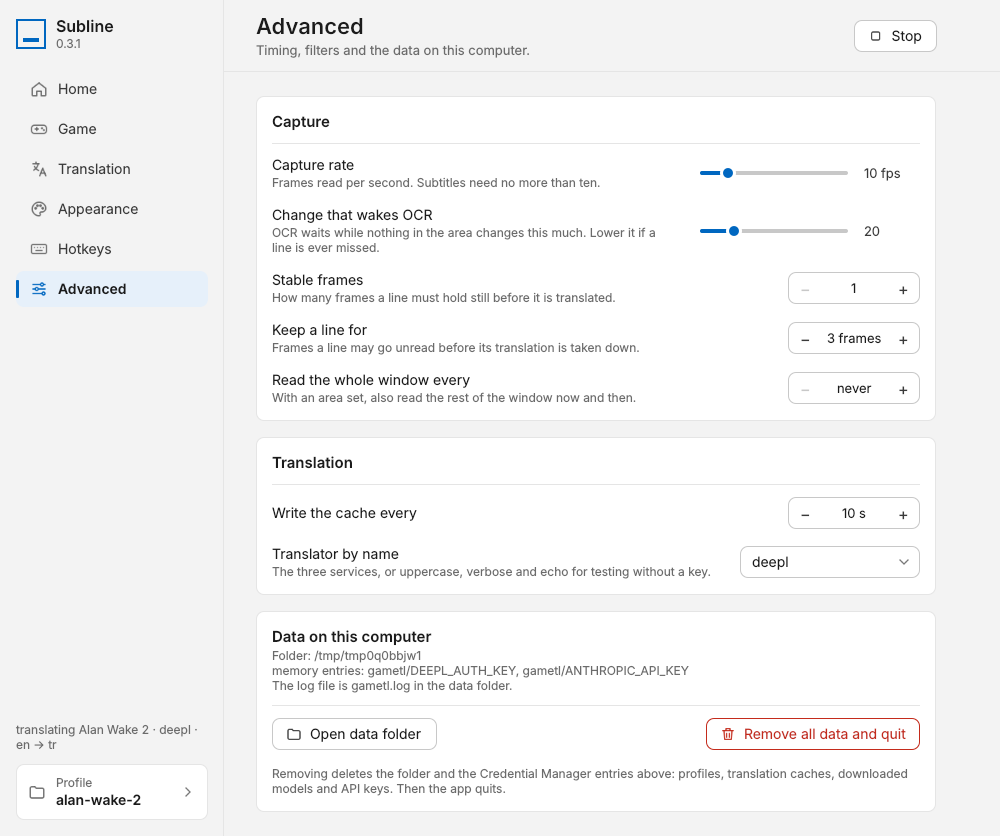
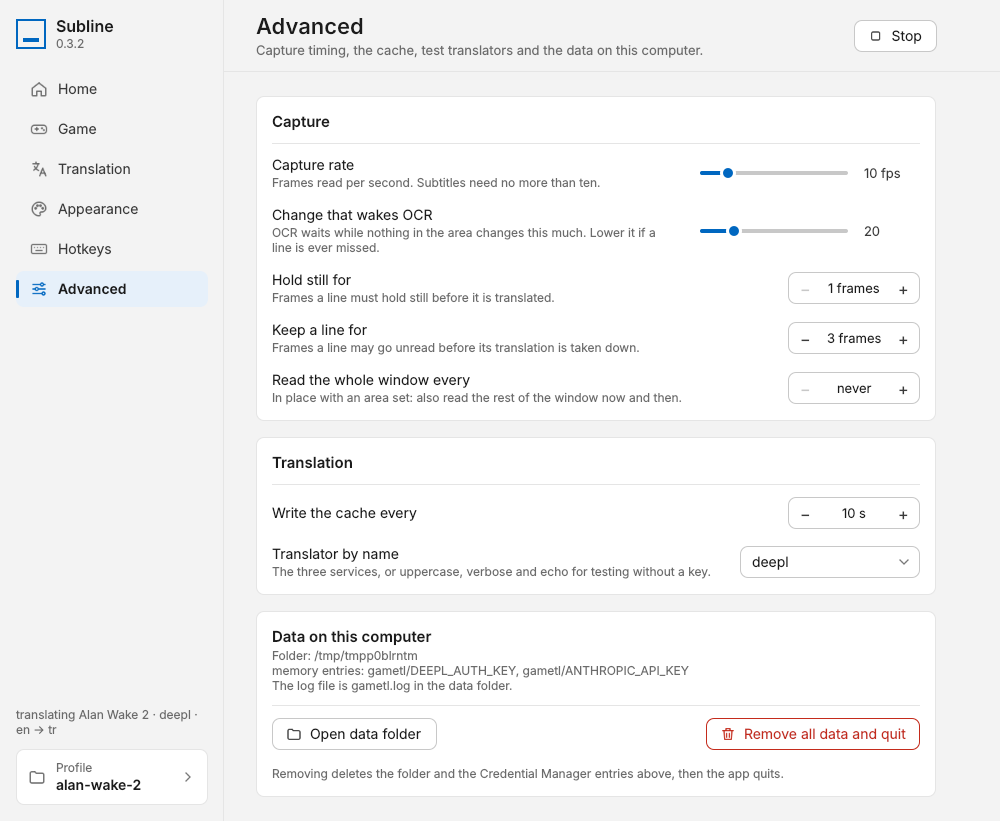
Review: docs, tests, packaging; version 0.3.2
- Remove all data, and every start, also deletes the SCREEN_API_KEY entry
  0.3.0 and 0.3.1 kept for the screen read, which this branch removed.
- Version 0.3.2: 0.3.1 is tagged with chat mode, so the removal needs its
  own release.
- README: a broken anchor, the design log described as it is, the release
  attaching the installer as well as the zip, the restart list complete,
  no "customers" left from the paid days; PLAN.md's status line likewise.
- The selector tests run in CI again (they need no desktop).
- The installer refuses Windows 10 before build 18362, which Windows
  Graphics Capture needs.
- Tests: a config test split in two by what it checks, a dead recorder
  field gone, TRANSLATORS imported from where it lives; the demo renderer
  labels the result Subline and its docstring says where the translator
  comes from; "the licensee" in the notices is "the user".
- Renders refreshed.

diff --git a/scripts/render_demo.py b/scripts/render_demo.py
@@ -9,8 +9,8 @@ game from a recording, without running the game.
 
 The default layout stacks the original frame above the translated one, so
 a viewer sees both subtitles; `--layout single` shows only the result. The
-translator comes from your settings (DeepL or Claude need their key,
-`--translator uppercase` needs nothing). `--roi` is the subtitle area as
+translator is `--translator` (default DeepL; DeepL and Claude read their
+key from Credential Manager, `uppercase` needs nothing). `--roi` is the subtitle area as
 fractions of the frame, like the app's area selection.
 """
 
@@ -30,6 +30,7 @@ from PIL import Image, ImageDraw, ImageFont
 from PySide6.QtGui import QImage, QPainter
 from PySide6.QtWidgets import QApplication
 
+from gametl import APP_NAME
 from gametl.app.config import ProfileStore, Settings
 from gametl.app.controller import build_translator, parse_zone, pipeline_config
 from gametl.app.credentials import WindowsCredentialStore
@@ -42,7 +43,7 @@ from gametl.overlay.paint import BlockPainter
 from gametl.translate.cache import TranslationCache
 from gametl.translate.service import TranslationService
 
-LABELS = {"original": "Game", "translated": "With gametl"}
+LABELS = {"original": "Game", "translated": f"With {APP_NAME}"}
 
 
 def paint_onto(image_bgr: np.ndarray, overlay: BlockPainter, blocks) -> np.ndarray:

diff --git a/src/gametl/app/cleanup.py b/src/gametl/app/cleanup.py
@@ -20,9 +20,10 @@ from .credentials import ANTHROPIC_KEY, DEEPL_KEY, SecretStore
 
 SECRET_NAMES = (DEEPL_KEY, ANTHROPIC_KEY)  # the Credential Manager entries the app keeps
 
-# What versions up to 0.2.1 kept for their licence key and trial: two
-# Credential Manager entries, a registry key and a key in config.json.
-STALE_SECRET_NAMES = ("LICENSE_KEY", "TRIAL_USED")
+# What earlier versions kept and this one does not: up to 0.2.1 the licence key and the trial
+# (two Credential Manager entries, a registry key and a key in config.json), in 0.3.0 and
+# 0.3.1 the screen reader's API key.
+STALE_SECRET_NAMES = ("LICENSE_KEY", "TRIAL_USED", "SCREEN_API_KEY")
 STALE_REGISTRY_KEY = r"Software\Subline"
 STALE_CONFIG_KEY = "trial_used"
 

diff --git a/tests/test_config.py b/tests/test_config.py
@@ -53,6 +53,9 @@ def test_subtitle_defaults_favour_a_steady_look() -> None:
     assert s.center_area is False  # free selection; Shift centres
     assert (s.subtitle_center_tolerance, s.subtitle_size_tolerance) == (10, 35)
     assert s.short_line_confidence == 0.9
+
+
+def test_old_profiles_are_upgraded() -> None:
     # A profile saved before these fields existed keeps working and gets the defaults.
     old = Settings.from_dict({"window_match": "Alan Wake 2", "subtitle_position": "source", "center_zone": True})
     assert old.subtitle_position == "source" and old.center_area is True  # center_zone: the name up to 0.1.8

diff --git a/tests/test_settings_backend.py b/tests/test_settings_backend.py
@@ -405,7 +405,7 @@ def test_status_and_text_for_the_header(tmp_path: Path) -> None:
 def test_the_pickers_list_what_the_app_accepts(tmp_path: Path) -> None:
     """The Advanced page's translator names are the ones a start accepts,
     and the Claude models are the ones with a known price, in that order."""
-    from gametl.app.controller import TRANSLATORS
+    from gametl.app.config import TRANSLATORS
     from gametl.translate.claude import PRICES_PER_MTOK
 
     backend = backend_for(tmp_path)

diff --git a/tests/test_cleanup.py b/tests/test_cleanup.py
@@ -43,7 +43,7 @@ def populated(tmp_path: Path) -> tuple[ProfileStore, MemorySecretStore]:
     return store, secrets
 
 
-def test_forget_trial_removes_what_0_2_left_and_nothing_else(tmp_path: Path) -> None:
+def test_forget_trial_removes_stale_entries_and_nothing_else(tmp_path: Path) -> None:
     store, secrets = populated(tmp_path)
     forget_trial(store, secrets)
     assert all(secrets.get(name) is None for name in STALE_SECRET_NAMES)

diff --git a/tests/test_pipeline.py b/tests/test_pipeline.py
@@ -113,11 +113,9 @@ class RecordingTranslator(UppercaseTranslator):
 
     def __init__(self) -> None:
         self.requests: list[list[str]] = []
-        self.speakers: list[list[str] | None] = []
 
     def translate(self, request: TranslationRequest) -> list[str]:
         self.requests.append(list(request.texts))
-        self.speakers.append(request.speakers)
         return super().translate(request)
 
 

diff --git a/src/gametl/__init__.py b/src/gametl/__init__.py
@@ -2,5 +2,5 @@
 
 # The one place the version lives: pyproject.toml reads it from here (hatch's
 # dynamic version) and the release workflow tags v<version> from this line.
-__version__ = "0.3.1"
+__version__ = "0.3.2"
 APP_NAME = "Subline"  # the name on the window, the tray and the icon; the package and the CLI stay gametl

diff --git a/README.md b/README.md
@@ -107,8 +107,9 @@ Credential Manager entries (`gametl/DEEPL_AUTH_KEY`,
 page, or `gametl-cli --remove-all-data`, deletes the folder and the
 entries. What versions up to 0.2.1 kept for their licence and trial (two
 more entries, `trial_used` in `config.json` and the registry key
-`HKEY_CURRENT_USER\Software\Subline`) is removed the first time 0.3 or
-later starts. While it runs, Subline keeps a small lock file in `%TEMP%` (`gametl-<id>.lock`),
+`HKEY_CURRENT_USER\Software\Subline`), and the screen-read key of 0.3.0
+and 0.3.1 (`gametl/SCREEN_API_KEY`), are removed the first time a later
+version starts. While it runs, Subline keeps a small lock file in `%TEMP%` (`gametl-<id>.lock`),
 which goes when it quits.
 
 ### From source
@@ -170,11 +171,11 @@ every control.
 
 Changes take effect as you make them, on the running overlay too: a typed
 value once the typing pauses, and the game window, game name, source
-language, glossary, tone notes and Claude model when you press Enter or
-leave the field. The area, the filters, the look and most of the timing
-reach a running overlay directly; a new window, game name, language,
-translator or capture rate restarts it (Claude's options do so only while
-Claude is in use).
+language, OCR language, glossary, tone notes and Claude model when you
+press Enter or leave the field. The area, the filters, the look and most
+of the timing reach a running overlay directly; a new window, game name,
+language, translator or draft, OCR on the GPU, capture rate or a cache
+setting restarts it (Claude's options do so only while Claude is in use).
 
 Next time, run Subline the same way. If the game of a saved profile is
 open, that profile loads and the overlay starts at once; otherwise the
@@ -328,7 +329,7 @@ Most settings have a command-line equivalent (the hotkeys do not);
 ## Command line
 
 In the packaged build, run these with `gametl-cli` (see
-[Packaged build](#packaged-build)); from source, with `uv run gametl`.
+[Portable build](#portable-build)); from source, with `uv run gametl`.
 
 `gametl` on its own runs the tray app with the profile of the game that is
 open, or the last one used (see [Getting started](#getting-started)).
@@ -422,8 +423,8 @@ tests/
 docs/         demo clip, renders of the settings pages (docs/ui)
 ```
 
-[PLAN.md](PLAN.md) is the design log of the first builds (up to 0.1.0):
-the early decisions and the measurements behind them. This README
+[PLAN.md](PLAN.md) is the design log: the early decisions and the
+measurements behind them, then selected later decisions. This README
 describes the app as it is now.
 
 ## Development
@@ -434,7 +435,7 @@ uv run ruff check src tests scripts
 uv run ruff format src tests scripts
 ```
 
-The overlay, selector and hotkey tests need an interactive desktop
+The overlay and hotkey-registration tests need an interactive desktop
 session; CI skips them.
 
 CI and the release build install with `uv sync --locked`: after a change
@@ -485,15 +486,16 @@ and `gametl-cli.exe` on one shared runtime; `--installer` also compiles
 lives; `pyproject.toml` reads it from there) and merge to `main`, and the
 workflow, seeing a version with no tag yet, builds the folder, checks its
 settings window with `gametl-cli.exe --check-ui`, creates the tag
-`v<version>` at the merge commit and attaches `gametl-v<version>-win64.zip`
-to its release. A merge whose version is already tagged builds nothing.
+`v<version>` at the merge commit and attaches `Subline-v<version>-setup.exe`
+and `gametl-v<version>-win64.zip` to its release. A merge whose version is already tagged builds nothing.
 Pushing a tag by hand (a dash, as in `v0.2.0-beta1`, makes a pre-release)
 or running the workflow from the Actions tab with a tag name does the
 same; with the tag left empty, the workflow builds without releasing and
-keeps the zip as a seven-day artifact. The tag must match `__version__`.
+keeps the installer and the zip as seven-day artifacts. The tag must match `__version__`.
 
 The releases of a private repository are visible to its collaborators
-only; for customers, publish the zip elsewhere. The executables are not
+only; to share builds publicly, make the repository public or publish
+the files elsewhere. The executables are not
 code-signed, so Windows warns about an unknown publisher until a signing
 step is added.
 

diff --git a/PLAN.md b/PLAN.md
@@ -1,11 +1,10 @@
 # Real-time In-Game Translation Overlay - Design Plan
 
-Status: historical design log of the first builds (2026-10-21 to
-2026-10-23, up to version 0.1.0), no longer kept up to date. Later
-decisions (DeepL as the default translator, the Qt Quick settings window
-with its Home page, the offline runtime downloaded on demand, the name
-Subline) are not recorded here; [README.md](README.md) describes the app
-as it is now.
+Status: design log. Sections 1-21 cover the first builds (2026-10-21 to
+2026-10-23, up to 0.1.0) and are historical; later sections record
+selected decisions only (others, such as DeepL as the default translator,
+the Qt Quick settings window and the name Subline, are not recorded).
+[README.md](README.md) describes the app as it is now.
 
 Written as: draft v0.2 (2026-10-21). Nothing built yet; this is the plan to agree on first.
 
@@ -1059,7 +1058,8 @@ with everything that only served it: the transcript
 the `chat_*` settings and options, and the screen read
 (`translate/screen.py`, the `read` hotkey, the `screen_*` settings and
 `SCREEN_API_KEY`), which drew only on the card. A 0.3.x profile saved in
-chat mode opens in subtitle mode, and a saved `read` hotkey is dropped.
+chat mode opens in subtitle mode, a saved `read` hotkey is dropped, and the
+`SCREEN_API_KEY` entry is deleted with the 0.2.x leftovers. Released as 0.3.2.
 What stays, because subtitle mode gains from it too: speaker names split
 off (`textutil.split_speaker`, both the "Name: words" and the name-line
 forms), the words alone translated and cached, the speaker sent to the

diff --git a/THIRD_PARTY_NOTICES.md b/THIRD_PARTY_NOTICES.md
@@ -98,7 +98,7 @@ General Public License, version 2.1, as separate DLL files (`geos-*.dll`,
 
 ## Services
 
-Translation through DeepL or Anthropic uses the licensee's own account and
+Translation through DeepL or Anthropic uses the user's own account and
 is subject to those services' terms.
 
 ## Demo footage
